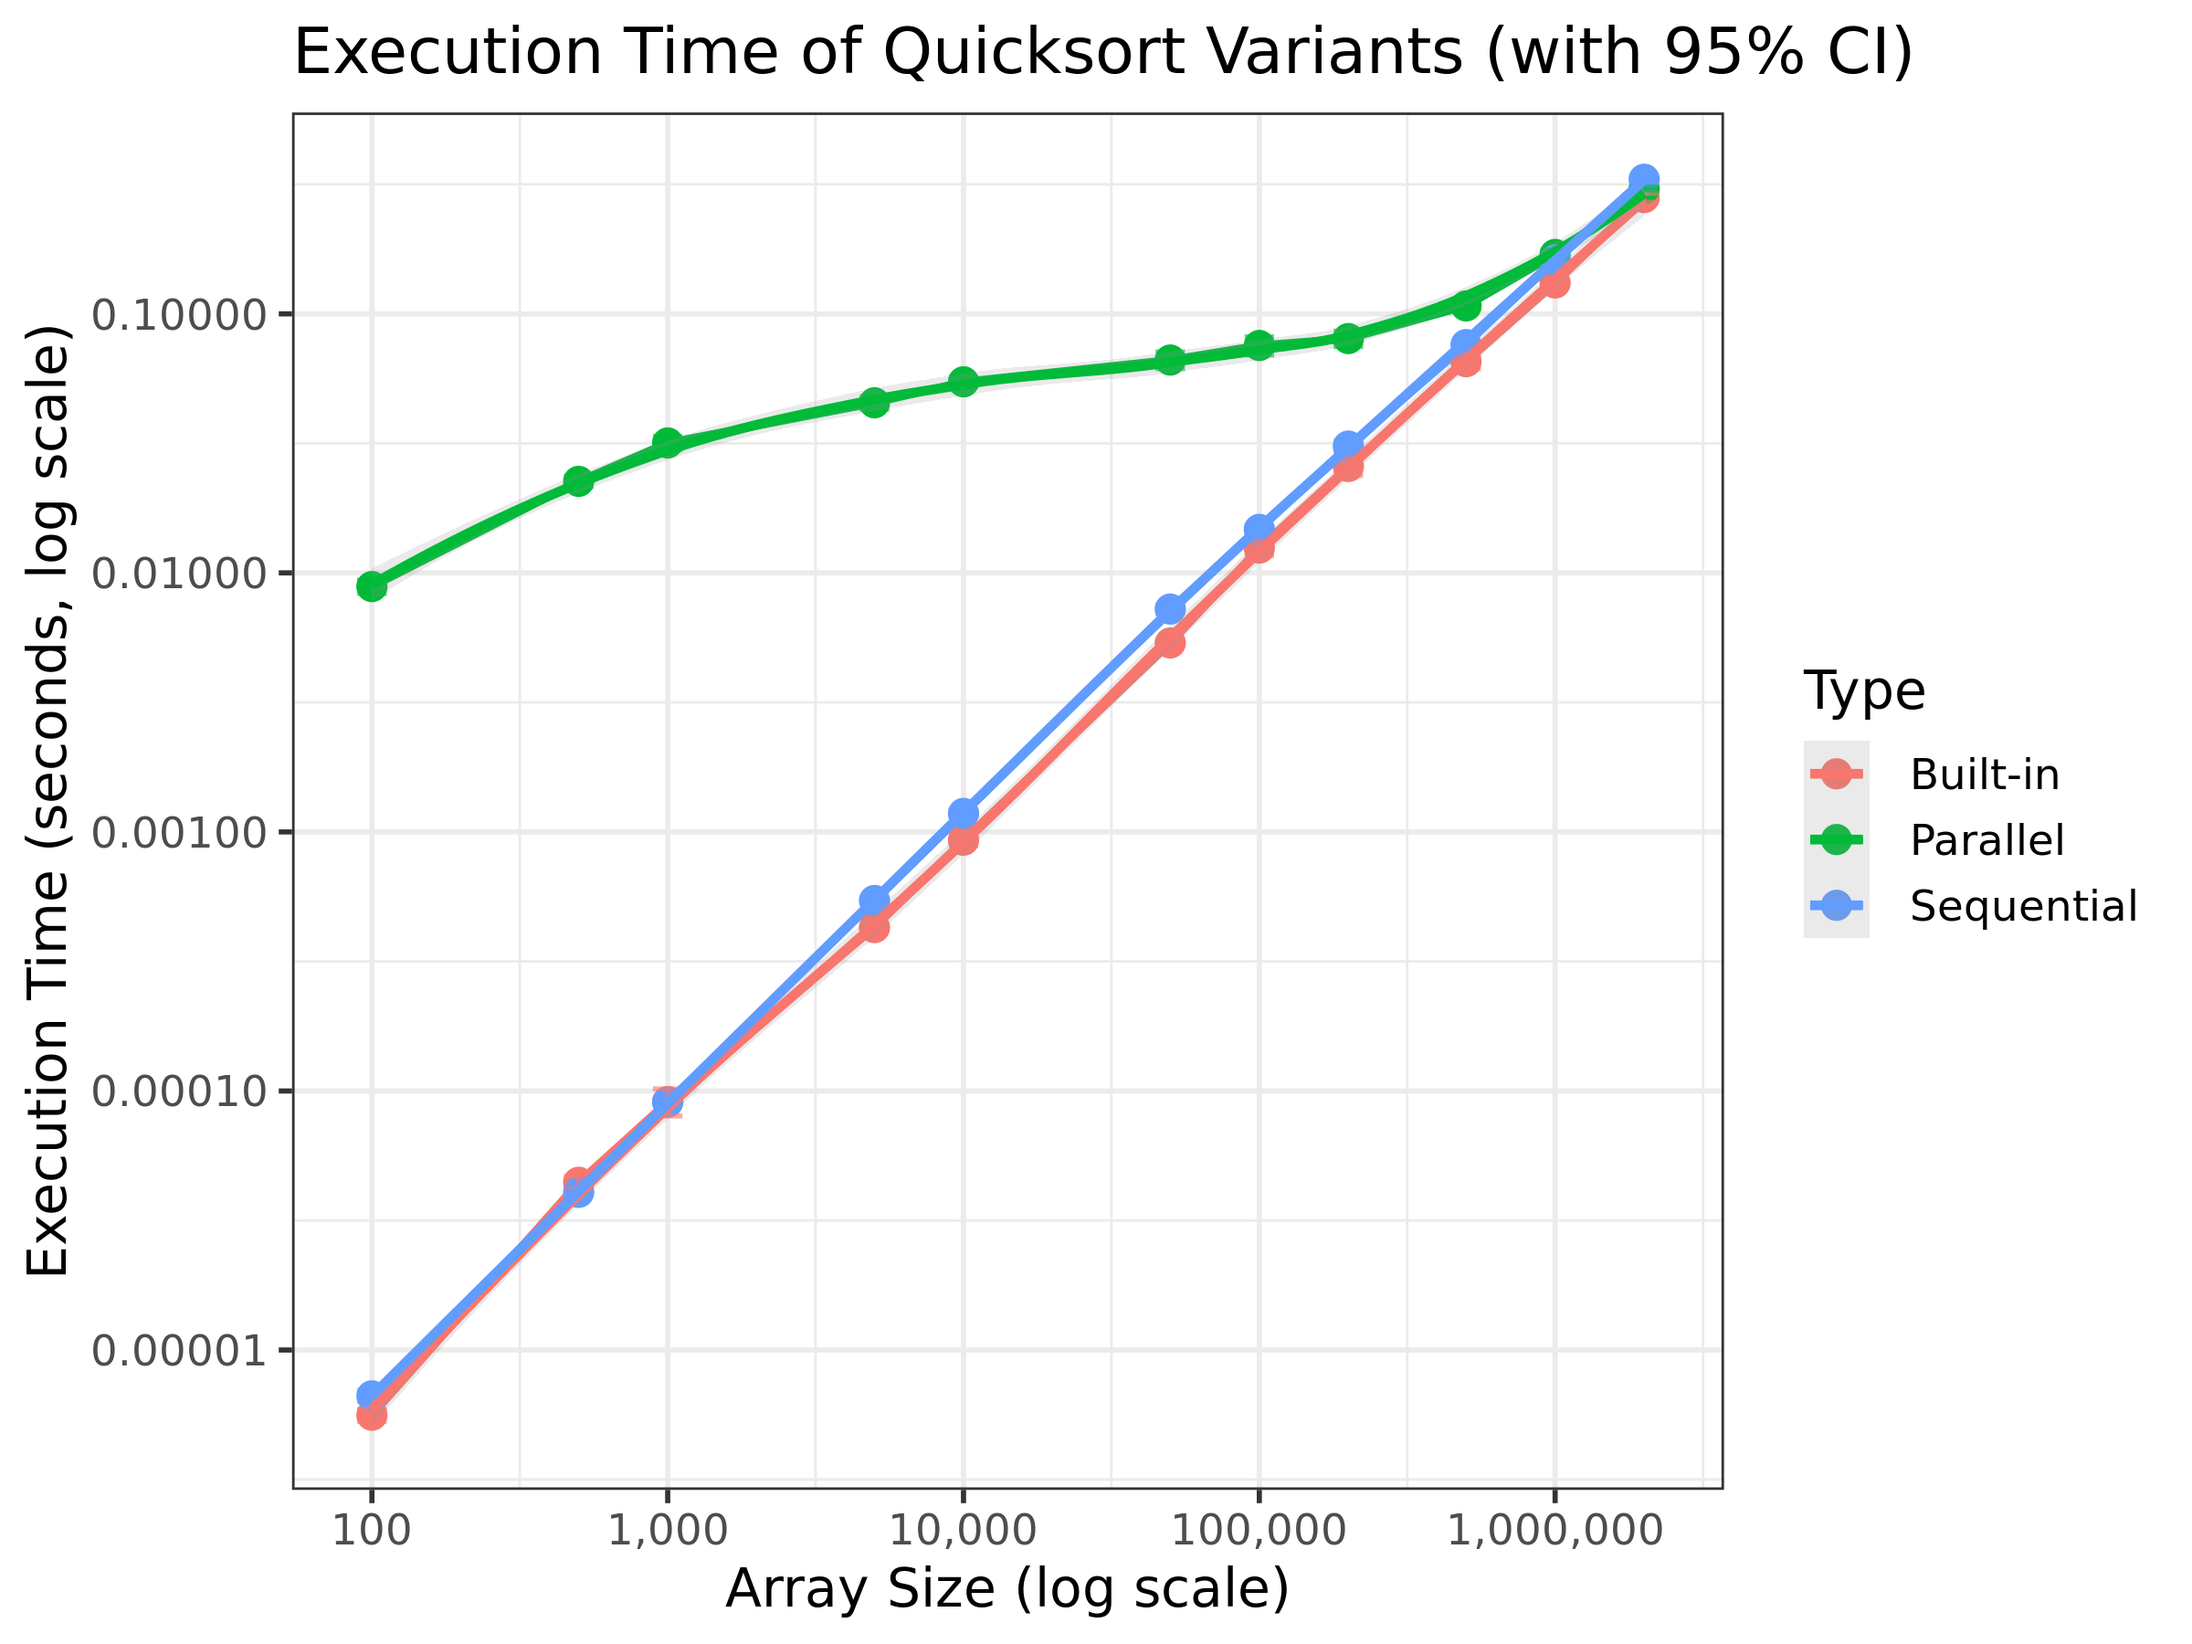
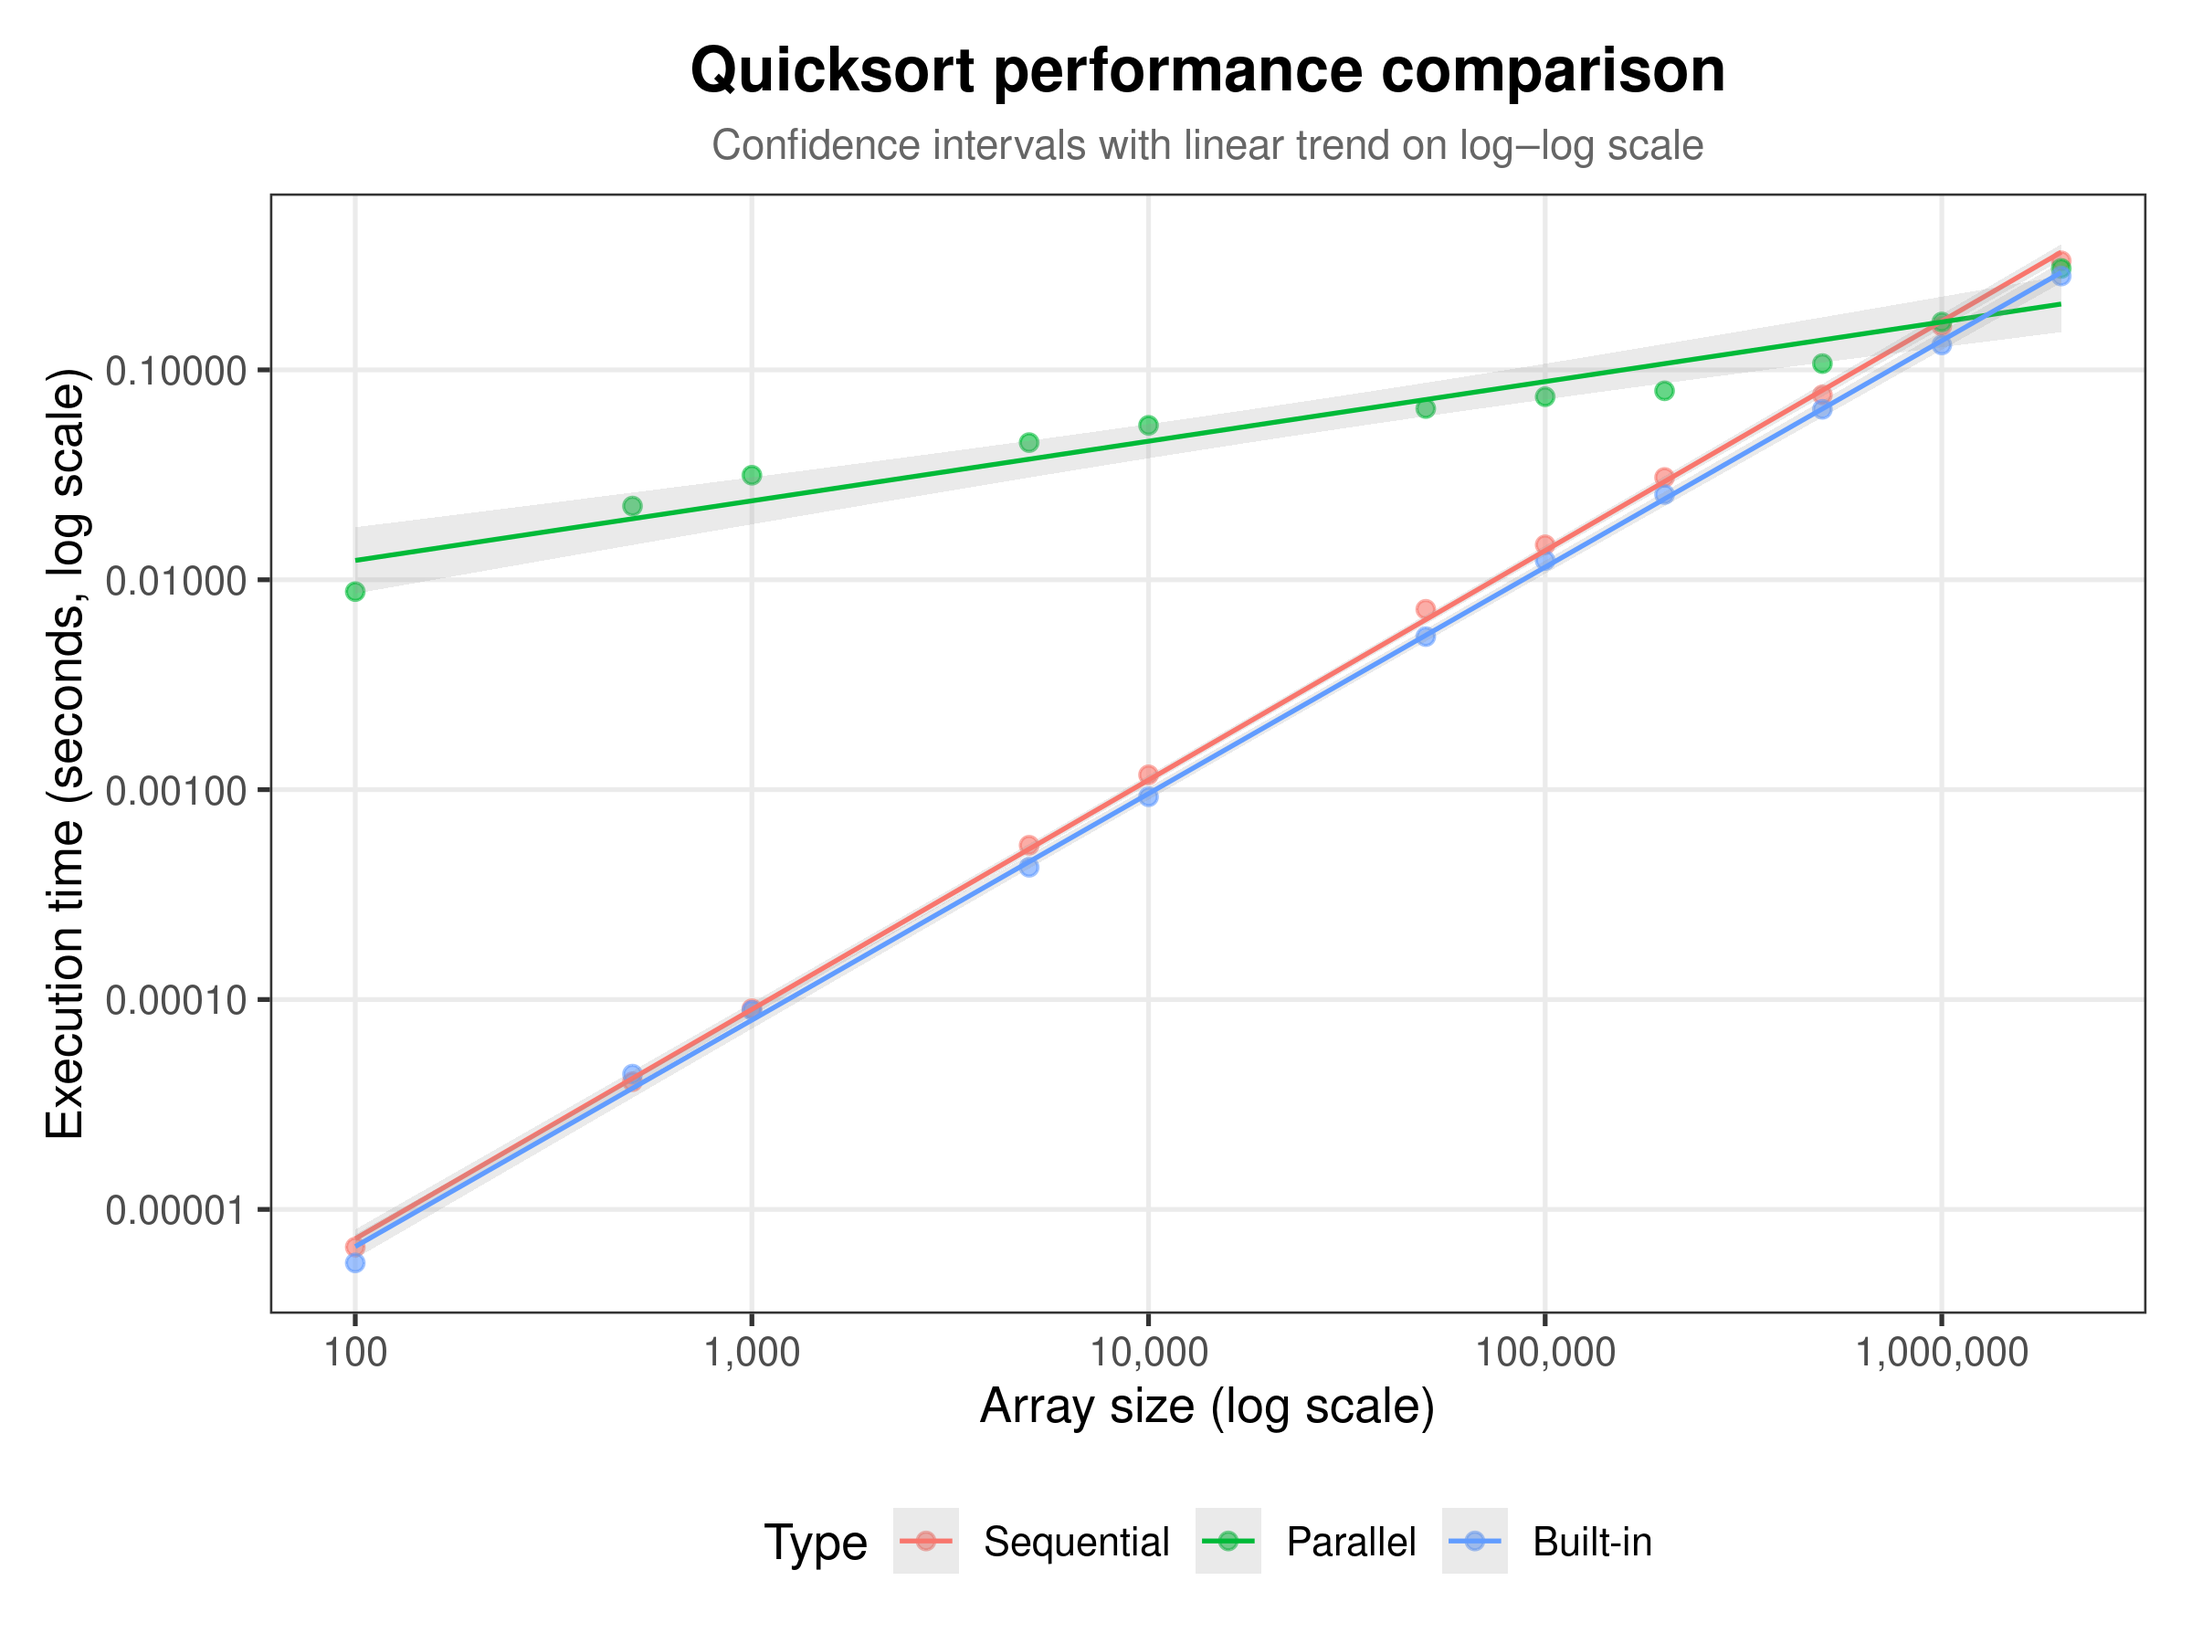
Fix CI and fit a linear model

diff --git a/Homework/Quicksort/README.md b/Homework/Quicksort/README.md
@@ -10,8 +10,6 @@ The goal is to apply good experimental methodology to obtain reliable, reproduci
 - **Parallel Quicksort** (Pthreads-based implementation)
 - **libc qsort** (reference baseline)
 
-This project emphasizes experimental rigor, including data collection, noise reduction, statistical analysis, and meaningful visualization.
-
 ---
 
 ## 1. Context of the Assignment
@@ -24,7 +22,7 @@ Only **5 runs** per configuration → not enough to estimate variance, detect an
 
 ### 🔸 Sparse selection of input sizes
 
-Array sizes jumped by powers of 10, hiding important transitions (e.g., where parallelism starts paying off).
+Array sizes jumped by powers of 10, hiding important transitions (where parallelism starts paying off).
 
 ### 🔸 Limited data analysis
 
@@ -45,12 +43,6 @@ for rep in `seq 1 30`; do
     ./src/parallelQuicksort $i >> $OUTPUT_FILE
 done
 ```
-
-This allows:
-- calculating standard error
-- computing 95% confidence intervals
-- filtering out outliers
-- comparing algorithms statistically
 
 ### ✔ 2.2 Enhanced Set of Array Sizes
 
@@ -85,7 +77,7 @@ The original text logs were converted into structured CSV using two Perl scripts
 - `csv_quicksort_extractor.pl` — produces long-format CSV (Size, Type, Time)
 - `csv_quicksort_extractor2.pl` — produces wide-format CSV (Size, Seq, Par, Libc)
 
-I additionally cleaned the Type column to remove inconsistent spacing (e.g. " Parallel" vs "Parallel"), which was crucial for correct grouping and regression.
+I additionally cleaned the Type column to remove inconsistent spacing (" Parallel" vs "Parallel"), which was crucial for correct grouping and regression.
 
 ### ✔ 2.5 Statistical Analysis with R
 
@@ -99,27 +91,10 @@ For each (size, algorithm):
 - standard error
 - 95% confidence interval
 
-#### Confidence Interval Visualization
-
-Plots with error bars on log-log scales:
-- X-axis: input size
-- Y-axis: execution time
-- CI displayed as vertical bars
-- Color-coded by algorithm
-
-#### LOESS smoothing (trend lines)
-
-Using:
-```r
-geom_smooth(method="loess")
-```
-
-This reveals:
-- performance trends
-- noise patterns
-- crossover regions
-
-without assuming a linear or polynomial model.
+#### Linear regression
+The script overlays a linear model trend line:
+- useful for comparing asymptotic scaling behavior
+- provides an interpretable slope on log–log axes
 
 ---
 
@@ -171,21 +146,15 @@ This produces raw logs in:
 data/<hostname>_<date>/measurements_<time>.txt
 ```
 
-The script will:
-- Create a timestamped output directory
-- Run experiments for multiple array sizes (randomized order)
-- Execute 30 repetitions per size
-- Measure all three sorting algorithms for each run
-
 ### Step 3 — Convert raw data to CSV
 
 Extract the data into CSV format:
 
 ```bash
-# Long format (recommended for analysis)
+# Long format
 perl scripts/csv_quicksort_extractor.pl < data/<hostname>_<date>/measurements_<time>.txt > data/<hostname>_<date>/measurements_<time>.csv
 
-# Or wide format (alternative)
+# Or wide format
 perl scripts/csv_quicksort_extractor2.pl < data/<hostname>_<date>/measurements_<time>.txt > data/<hostname>_<date>/measurements_<time>_wide.csv
 ```
 
@@ -230,20 +199,6 @@ The **30 repetitions** allow for meaningful confidence intervals:
 
 - **Sequential** and **built-in** algorithms show very tight CIs, indicating stable performance.
 - **Parallel quicksort** shows higher variance, reflecting sensitivity to thread scheduling and OS noise.
-
----
-
-## 6. Lessons Learned
-
-This assignment demonstrates the importance of:
-
-- accounting for measurement noise
-- using repetition to reduce statistical uncertainty
-- designing experiments with appropriate resolution
-- visualizing results on logarithmic scales
-- interpreting speedup/slowdown in the context of algorithmic complexity
-- applying statistical rigor to performance evaluation
-
 ---
 
 ## Author
